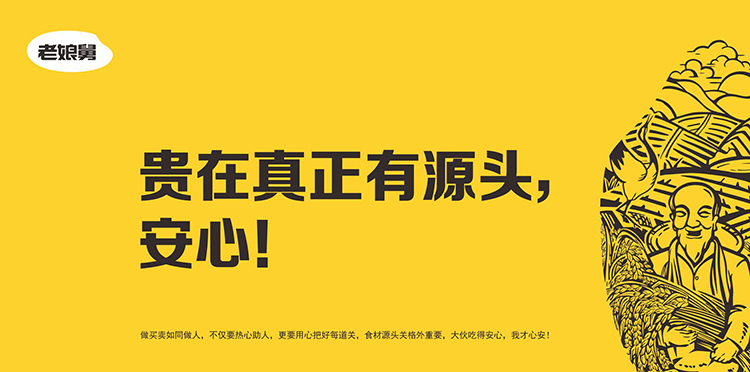
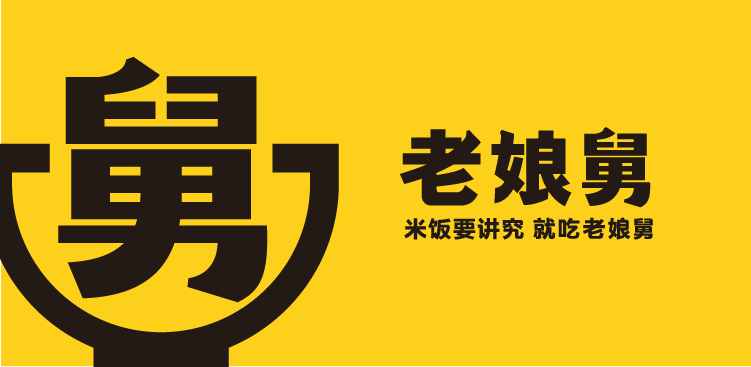
首页banner图更换，banner支持弹屏和跳转H5

diff --git a/pages/index/index.js b/pages/index/index.js
@@ -14,16 +14,13 @@ Page({
       jumpLock:false,
       noticeClosed:true,
       timer:3,
-      imgUrls: [
-        '../../image/ad.jpg'
-      ],
+      imgUrls: [],
       indicatorDots: false,
       autoplay: false,
       interval: 1500,
       duration: 1500,
       fillHeight:wx.getSystemInfoSync().windowHeight-473.5,
   },
-
   Return:function(){
     wx.redirectTo({url:'../../pages/homepage/index'});
   },
@@ -65,11 +62,6 @@ Page({
     })
   },
 
-  onShow:function(){
-    if (isInitSelfShow) return;
-    this.onLoad();
-  },
-
   onHide() {
     isInitSelfShow = false;
   },
@@ -90,6 +82,23 @@ Page({
       })
     })
     
+    var param = { mini:'mini',
+                  openId:app.globalData.openId,
+                  userId:app.globalData.userId||'',
+                  merId:3,
+                  posId:1 };
+    wx.request({
+        url: app.globalData.host+'/banner/popup',  
+        data: param,
+        success: function (res) {
+          if (res.data.errcode == 0) {
+               _this.setData({panelShow:true,panelImg:res.data.data})   
+          }else{
+
+          }
+        }
+    })
+
     //请求门店信息
     var param = { mini:'mini',
                   shopId:app.globalData.shopId,
@@ -158,17 +167,14 @@ Page({
     //请求Banner
     var param = { mini:'mini',
                   page:'自助点餐首页',
-                  position:'底部' };
+                  posId:1
+                };
     wx.request({
         url: app.globalData.host+'/banner/getBanner', 
         data: param,
         success: function (res) {
           if (res.data.errcode == 0) {
-             var items = res.data.data
-             var imgUrls = []
-             for(var i in items){
-                imgUrls.push(items[i].imgUrl)
-             }
+             var imgUrls = res.data.data
              if(imgUrls.length==1){
                  _this.setData({
                       indicatorDots: false,
@@ -182,9 +188,28 @@ Page({
         }
     })
   },
-
+  jumpFun(e){
+    var item =  e.currentTarget.dataset.item;
+    console.log(item)
+    if(item.type==1){         //type=1,表示跳转链接
+       if(item.hrefUrl){
+           wx.navigateTo({url: '/pages/webPage/index?url='+item.hrefUrl})
+       }
+    }else{
+      if(item.hrefUrl){
+           this.setData({panelImg:item.hrefUrl,panelShow:true})    
+       }
+    }
+  },
+  closePanel(){
+      this.setData({
+         panelShow:false
+      })
+  },
   onShow:function(scene){
+    var _this = this;
     console.log('进入index页面')
+    if (isInitSelfShow) return;
     if(app.globalData.unionId){
         var param =  { mini:'mini',
                        openId:app.globalData.openId,
@@ -204,6 +229,7 @@ Page({
                     app.globalData.userId = userId
                     app.globalData.cardNo = cardNo
                     app.globalData.mobile = mobile
+                    _this.onLoad();
               }
             }
         })

diff --git a/pages/homepage/index.js b/pages/homepage/index.js
@@ -17,24 +17,56 @@ Page({
      noticeClosed:false,
      canIUseWebView: wx.canIUse('web-view')
   },
-
+  jumpFun(e){
+    var item =  e.currentTarget.dataset.item;
+    console.log(item)
+    if(item.type==1){         //type=1,表示跳转链接
+       if(item.hrefUrl){
+           wx.navigateTo({url: '/pages/webPage/index?url='+item.hrefUrl})
+       }
+    }else{
+      if(item.hrefUrl){
+           this.setData({panelImg:item.hrefUrl,panelShow:true})    
+       }
+    }
+  },
+  closePanel(){
+      this.setData({
+         panelShow:false
+      })
+  },
+  onReady(){
+      var _this = this;
+      app.showTipImg = function(){
+        var param = { mini:'mini',
+                      openId:app.globalData.openId,
+                      userId:app.globalData.userId||'',
+                      merId:3,
+                      posId:1 };
+        wx.request({
+            url: app.globalData.host+'/banner/popup',  
+            data: param,
+            success: function (res) {
+              if (res.data.errcode == 0) {
+                   _this.setData({panelShow:true,panelImg:res.data.data})   
+              }
+            }
+        })
+      }
+  },
   onLoad:function(option){
-	  var _this = this;
+    var _this = this;
     
     //请求Banner
     var param = { mini:'mini',
                   page:'管理设置导航页',
-                  position:'顶部' };
+                  posId:2 };
     wx.request({
         url: app.globalData.host+'/banner/getBanner',  
         data: param,
         success: function (res) {
           if (res.data.errcode == 0) {
-             var items = res.data.data
-             var imgUrls = []
-             for(var i in items){
-                imgUrls.push(items[i].imgUrl)
-             }
+             var imgUrls = res.data.data
              if(imgUrls.length==1){
                  _this.setData({
                       indicatorDots: false,
@@ -53,11 +85,11 @@ Page({
         app.globalData.userInfo = null
     }
     //获取全局数据，初始化当前页面
-	  app.getUserInfo(function(userInfo){
-	     //用户信息
-	     _this.setData({
-	       userInfo:userInfo
-	     })
+    app.getUserInfo(function(userInfo){
+       //用户信息
+       _this.setData({
+         userInfo:userInfo
+       })
        if(option.q){
          var qrcode = decodeURIComponent(option.q);
          if(qrcode!='undefined'){
@@ -166,7 +198,7 @@ Page({
            
          }
        }
-	  })
+    })
   },
 
   //解析二维码数据
